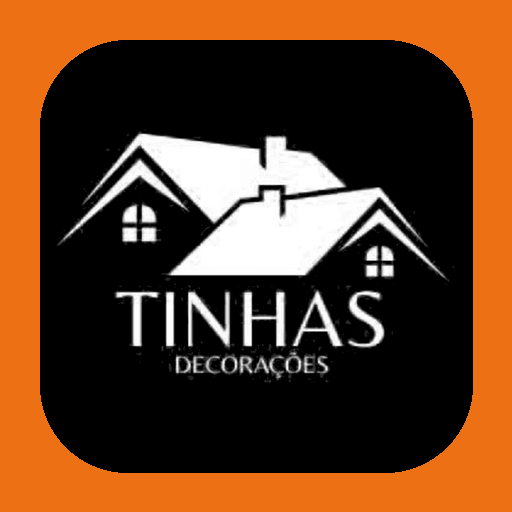
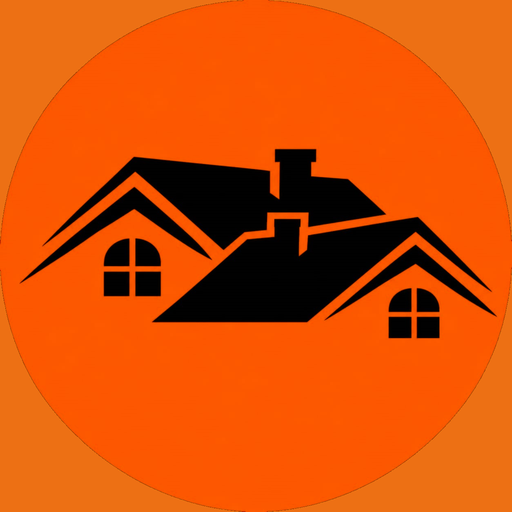
Add files via upload

diff --git a/gestao/style.css b/gestao/style.css
@@ -8,17 +8,17 @@ body{max-width:520px;margin:0 auto;min-height:100dvh;overscroll-behavior-y:conta
 button,input,select,textarea{font:inherit}button{cursor:pointer}button:disabled{opacity:.6;cursor:not-allowed}
 .escondido{display:none!important}.tela{min-height:100dvh;padding-bottom:max(18px,env(safe-area-inset-bottom));width:100%}
 /* LOGIN */
-.tela-login{display:flex;align-items:center;justify-content:center;padding:calc(18px + env(safe-area-inset-top)) 20px calc(26px + env(safe-area-inset-bottom));background:var(--laranja)}
-.login-box{width:100%;max-width:440px;text-align:center}
-.logo-login{height:86px;margin:0 auto 8px;width:190px;display:flex;align-items:center;justify-content:center;background:#080808;border:1px solid rgba(255,255,255,.24);border-radius:18px;padding:8px 16px;box-shadow:0 9px 28px rgba(0,0,0,.2)}
-.logo-login img{width:100%;height:100%;object-fit:contain}
-.marca-login h1{font-size:31px;font-weight:900;line-height:1;color:#000;letter-spacing:2px}
-.marca-login p{letter-spacing:3px;color:#24160D;margin-top:5px;font-size:10px;font-weight:800}
-.login-ilustracao{position:relative;height:230px;margin:17px 0 15px;border-radius:22px;overflow:hidden;background:radial-gradient(circle at 55% 40%,#47200D 0,#170B04 48%,#000 82%);border:1px solid #111;box-shadow:0 10px 30px rgba(0,0,0,.18)}
-.login-ilustracao img{width:100%;height:100%;object-fit:cover;object-position:center 32%;display:block}
-.login-ilustracao:after{content:"";position:absolute;inset:0;background:linear-gradient(0deg,rgba(0,0,0,.55),transparent 56%);pointer-events:none}
-.login-frase{position:absolute;z-index:2;left:13px;bottom:13px;text-align:left;color:#fff;font-size:18px;font-style:italic;font-weight:800;line-height:1.1;text-shadow:0 2px 7px #000}
-.login-frase strong{color:var(--laranja);font-size:21px}
+.tela-login{display:flex;align-items:flex-start;justify-content:center;padding:calc(14px + env(safe-area-inset-top)) 20px calc(22px + env(safe-area-inset-bottom));background:var(--laranja)}
+.login-box{width:100%;max-width:440px;text-align:center;margin:auto 0}
+.logo-login{height:104px;width:104px;margin:0 auto 7px;display:flex;align-items:center;justify-content:center;background:transparent;border:0;border-radius:50%;padding:0;box-shadow:none}
+.logo-login img{width:100%;height:100%;object-fit:contain;display:block}
+.marca-login h1{font-size:31px;font-weight:900;line-height:1;color:#000;letter-spacing:.3px}
+.marca-login p{letter-spacing:1.1px;color:#24160D;margin-top:5px;font-size:13px;font-weight:800}
+.login-ilustracao{position:relative;height:clamp(240px,62vw,300px);margin:15px 0 13px;border-radius:22px;overflow:hidden;background:#100904;border:1px solid #111;box-shadow:0 10px 30px rgba(0,0,0,.18)}
+.login-ilustracao img{width:100%;height:100%;object-fit:contain;object-position:center center;display:block}
+
+
+
 .form-login{text-align:left}
 .campo-login{display:flex;align-items:center;gap:10px;border:1px solid #171717;background:#fff;border-radius:13px;padding:0 13px;margin-top:10px;box-shadow:0 4px 10px rgba(0,0,0,.08)}
 .campo-login span{font-size:20px}.campo-login input{width:100%;padding:14px 0;border:0;background:transparent;color:#111;outline:none;font-size:15px;min-width:0}
@@ -70,6 +70,6 @@ button,input,select,textarea{font:inherit}button{cursor:pointer}button:disabled{
 .drawer-backdrop{position:fixed;inset:0;z-index:60;background:rgba(0,0,0,.58);display:flex}.drawer{width:min(300px,84vw);height:100%;background:#090909;color:#fff;padding:calc(14px + env(safe-area-inset-top)) 15px 25px;box-shadow:12px 0 35px rgba(0,0,0,.3);overflow:auto}.drawer-head{display:flex;align-items:center;justify-content:space-between;margin-bottom:17px;padding-bottom:13px;border-bottom:1px solid #333}.drawer-head img{width:130px;height:60px;object-fit:contain}.drawer-head button{border:0;background:transparent;color:#fff;font-size:28px}.drawer>button{display:block;width:100%;text-align:left;padding:12px 11px;border:0;background:transparent;color:#fff;border-radius:10px;font-size:14px}.drawer>button:active,.drawer>button:hover{background:#282018;color:var(--laranja)}
 .modal-backdrop{position:fixed;inset:0;z-index:80;background:rgba(0,0,0,.7);display:flex;align-items:center;justify-content:center;padding:15px}.modal{width:min(520px,100%);max-height:90dvh;overflow:auto;background:#fff;border:2px solid #111;border-radius:17px;color:#111;box-shadow:0 20px 60px rgba(0,0,0,.3)}.modal-head{display:flex;justify-content:space-between;align-items:center;padding:14px 16px;background:#111;color:#fff}.modal-head h3{font-size:17px}.modal-close{border:0;background:transparent;color:#fff;font-size:25px}.modal-body{padding:14px}.modal-footer{display:flex;justify-content:flex-end;gap:8px;padding:12px 14px;background:#FFF3E8;border-top:1px solid #E5C2A7}
 .toast{position:fixed;left:50%;bottom:calc(22px + env(safe-area-inset-bottom));transform:translateX(-50%);z-index:100;background:#111;border:1px solid var(--laranja);color:#fff;padding:11px 15px;border-radius:12px;max-width:90%;text-align:center;box-shadow:0 8px 30px rgba(0,0,0,.35);font-size:13px}
-@media(max-width:390px){.logo-login{height:74px;width:165px}.login-ilustracao{height:205px}.hero{aspect-ratio:18/9;min-height:130px}.hero-frase{font-size:15px}.hero-frase strong{font-size:1.15em}.modulo{min-height:111px}.emoji{width:44px;height:44px;font-size:24px}.modulo strong{font-size:14px}.resumo-home-card strong{font-size:19px}}
+@media(max-width:390px){.logo-login{height:92px;width:92px}.login-ilustracao{height:clamp(230px,68vw,265px)}.hero{aspect-ratio:18/9;min-height:130px}.hero-frase{font-size:15px}.hero-frase strong{font-size:1.15em}.modulo{min-height:111px}.emoji{width:44px;height:44px;font-size:24px}.modulo strong{font-size:14px}.resumo-home-card strong{font-size:19px}}
 /* Scroll suave e estável no PWA instalado */
 html,body{overflow-x:hidden;overflow-y:auto;-webkit-overflow-scrolling:touch}#tela-modulo{position:relative;min-height:100dvh;overflow-x:hidden;overflow-y:auto;-webkit-overflow-scrolling:touch;overscroll-behavior-y:auto}#tela-modulo .topo{position:sticky;top:0;z-index:50}#tela-modulo .conteudo-modulo{height:auto;min-height:calc(100dvh - 66px);overflow:visible;padding-bottom:calc(90px + env(safe-area-inset-bottom))}

diff --git a/gestao/index.html b/gestao/index.html
@@ -9,19 +9,18 @@
   <meta name="apple-mobile-web-app-title" content="Tinhas Gestão">
   <meta name="description" content="Aplicativo interno de gestão da Tinhas Decorações.">
   <title>Tinhas Gestão</title>
-  <link rel="manifest" href="manifest.json?v=1.0.1">
+  <link rel="manifest" href="manifest.json?v=1.0.2">
   <link rel="icon" type="image/png" sizes="192x192" href="assets/icon-192.png">
   <link rel="apple-touch-icon" href="assets/icon-192.png">
-  <link rel="stylesheet" href="style.css?v=1.0.1">
+  <link rel="stylesheet" href="style.css?v=1.0.2">
 </head>
 <body>
   <section id="tela-login" class="tela tela-login">
     <div class="login-box">
-      <div class="logo-login"><img src="assets/logo-tinhas.png" alt="Tinhas Decorações"></div>
-      <div class="marca-login"><h1>GESTÃO</h1><p>CONTROLE DA MARCENARIA</p></div>
+      <div class="logo-login"><img src="assets/icone-tinhas.png" alt="Símbolo Tinhas Decorações"></div>
+      <div class="marca-login"><h1>Gestão</h1><p>Tinhas Decorações</p></div>
       <div class="login-ilustracao">
         <img src="assets/casal-login.png" alt="Equipe Tinhas Decorações: marcenaria e marketing">
-        <div class="login-frase">Organização hoje,<br><strong>crescimento sempre</strong> 🧡</div>
       </div>
       <form id="form-login" class="form-login" autocomplete="on">
         <label class="campo-login"><span>✉</span><input id="email" type="email" placeholder="E-mail autorizado" autocomplete="username" required></label>

diff --git a/gestao/service-worker.js b/gestao/service-worker.js
@@ -1,4 +1,4 @@
-const CACHE_NAME = 'tinhas-gestao-v1.0.1';
+const CACHE_NAME = 'tinhas-gestao-v1.0.2';
 const APP_FILES = [
   './',
   './index.html',
@@ -7,6 +7,7 @@ const APP_FILES = [
   './app.js',
   './manifest.json',
   './assets/logo-tinhas.png',
+  './assets/icone-tinhas.png',
   './assets/casal-login.png',
   './assets/fernando-home.png',
   './assets/leticia-home.png',

diff --git a/gestao/config.js b/gestao/config.js
@@ -4,5 +4,5 @@
  */
 window.TINHAS_CONFIG = {
   API_URL: 'https://script.google.com/macros/s/AKfycbzkSTUbx4OK0MmtQerB77hiW8xlSqfRbc99oaiMgCuNZ7A931b-DOJnP-oDn6rZGS30YQ/exec',
-  APP_VERSION: '1.0.1'
+  APP_VERSION: '1.0.2'
 };

diff --git a/README.md b/README.md
@@ -14,7 +14,7 @@ O aplicativo em `gestao/` é uma PWA estática para GitHub Pages. Ele utiliza:
 - `assets/`: logo e personagens oficiais da Tinhas;
 - `config.js`: endereço da API própria do Apps Script.
 
-A configuração `API_URL` em `gestao/config.js` já está preenchida com a URL `/exec` fornecida para a implantação do Apps Script. A versão do PWA foi atualizada para `1.0.1` para renovar o cache nos dispositivos.
+A configuração `API_URL` em `gestao/config.js` já está preenchida com a URL `/exec` fornecida para a implantação do Apps Script. A versão do PWA foi atualizada para `1.0.2` para renovar o cache nos dispositivos.
 
 ## Backend privado
 
